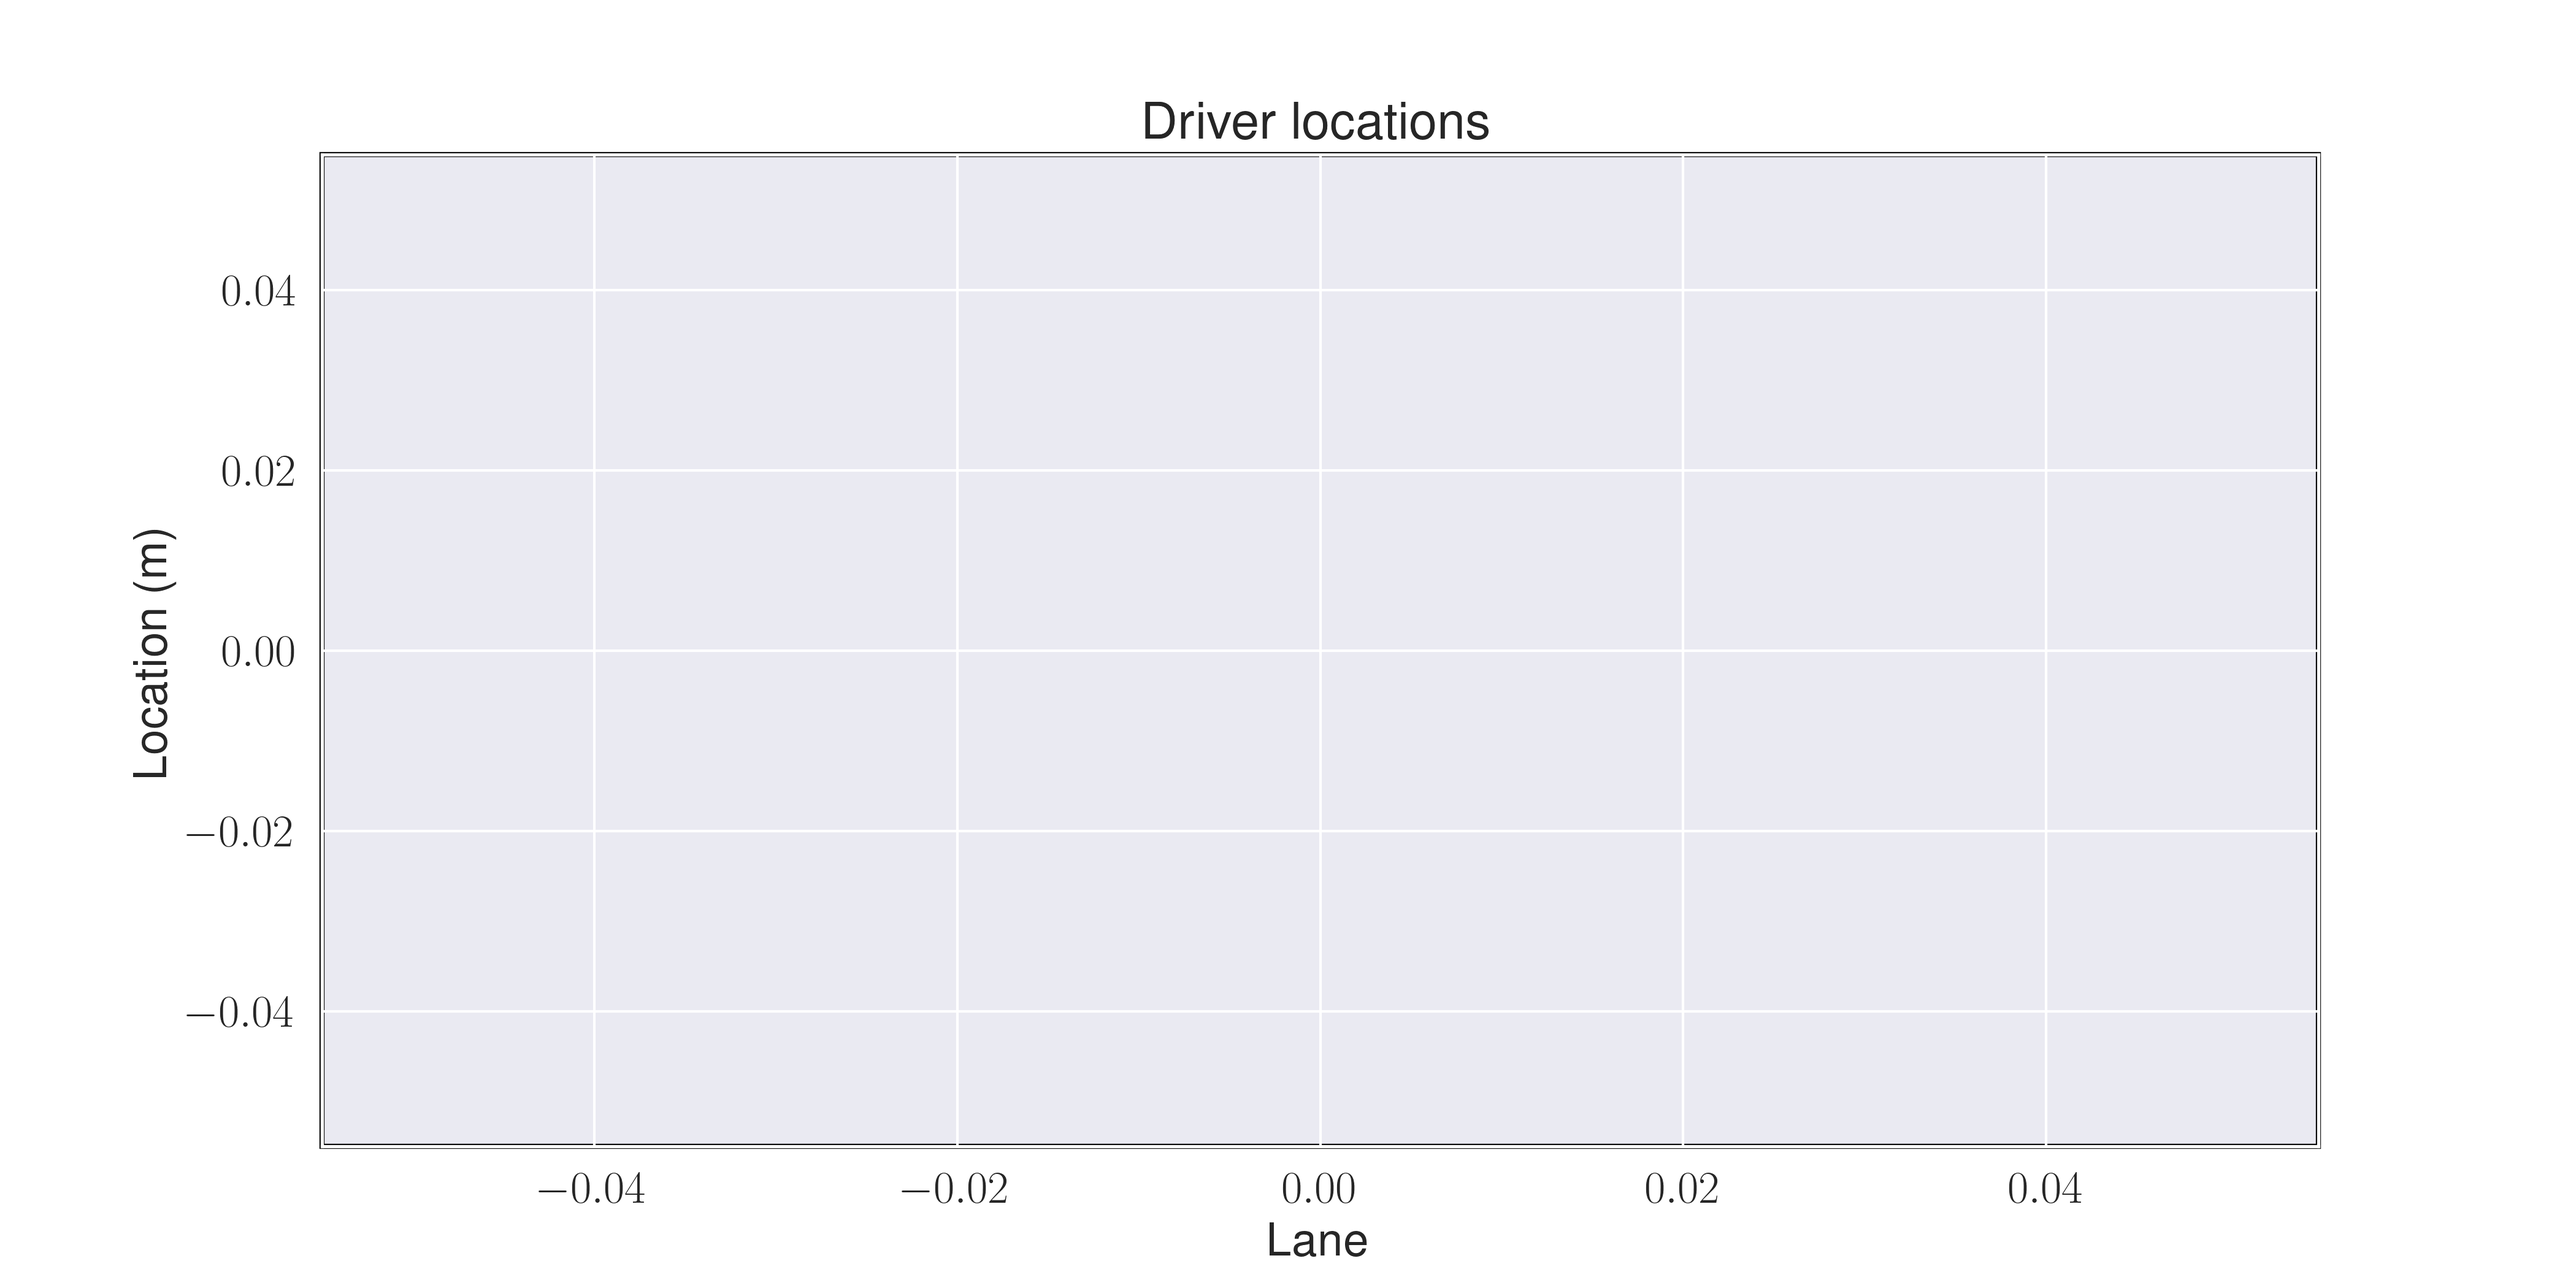
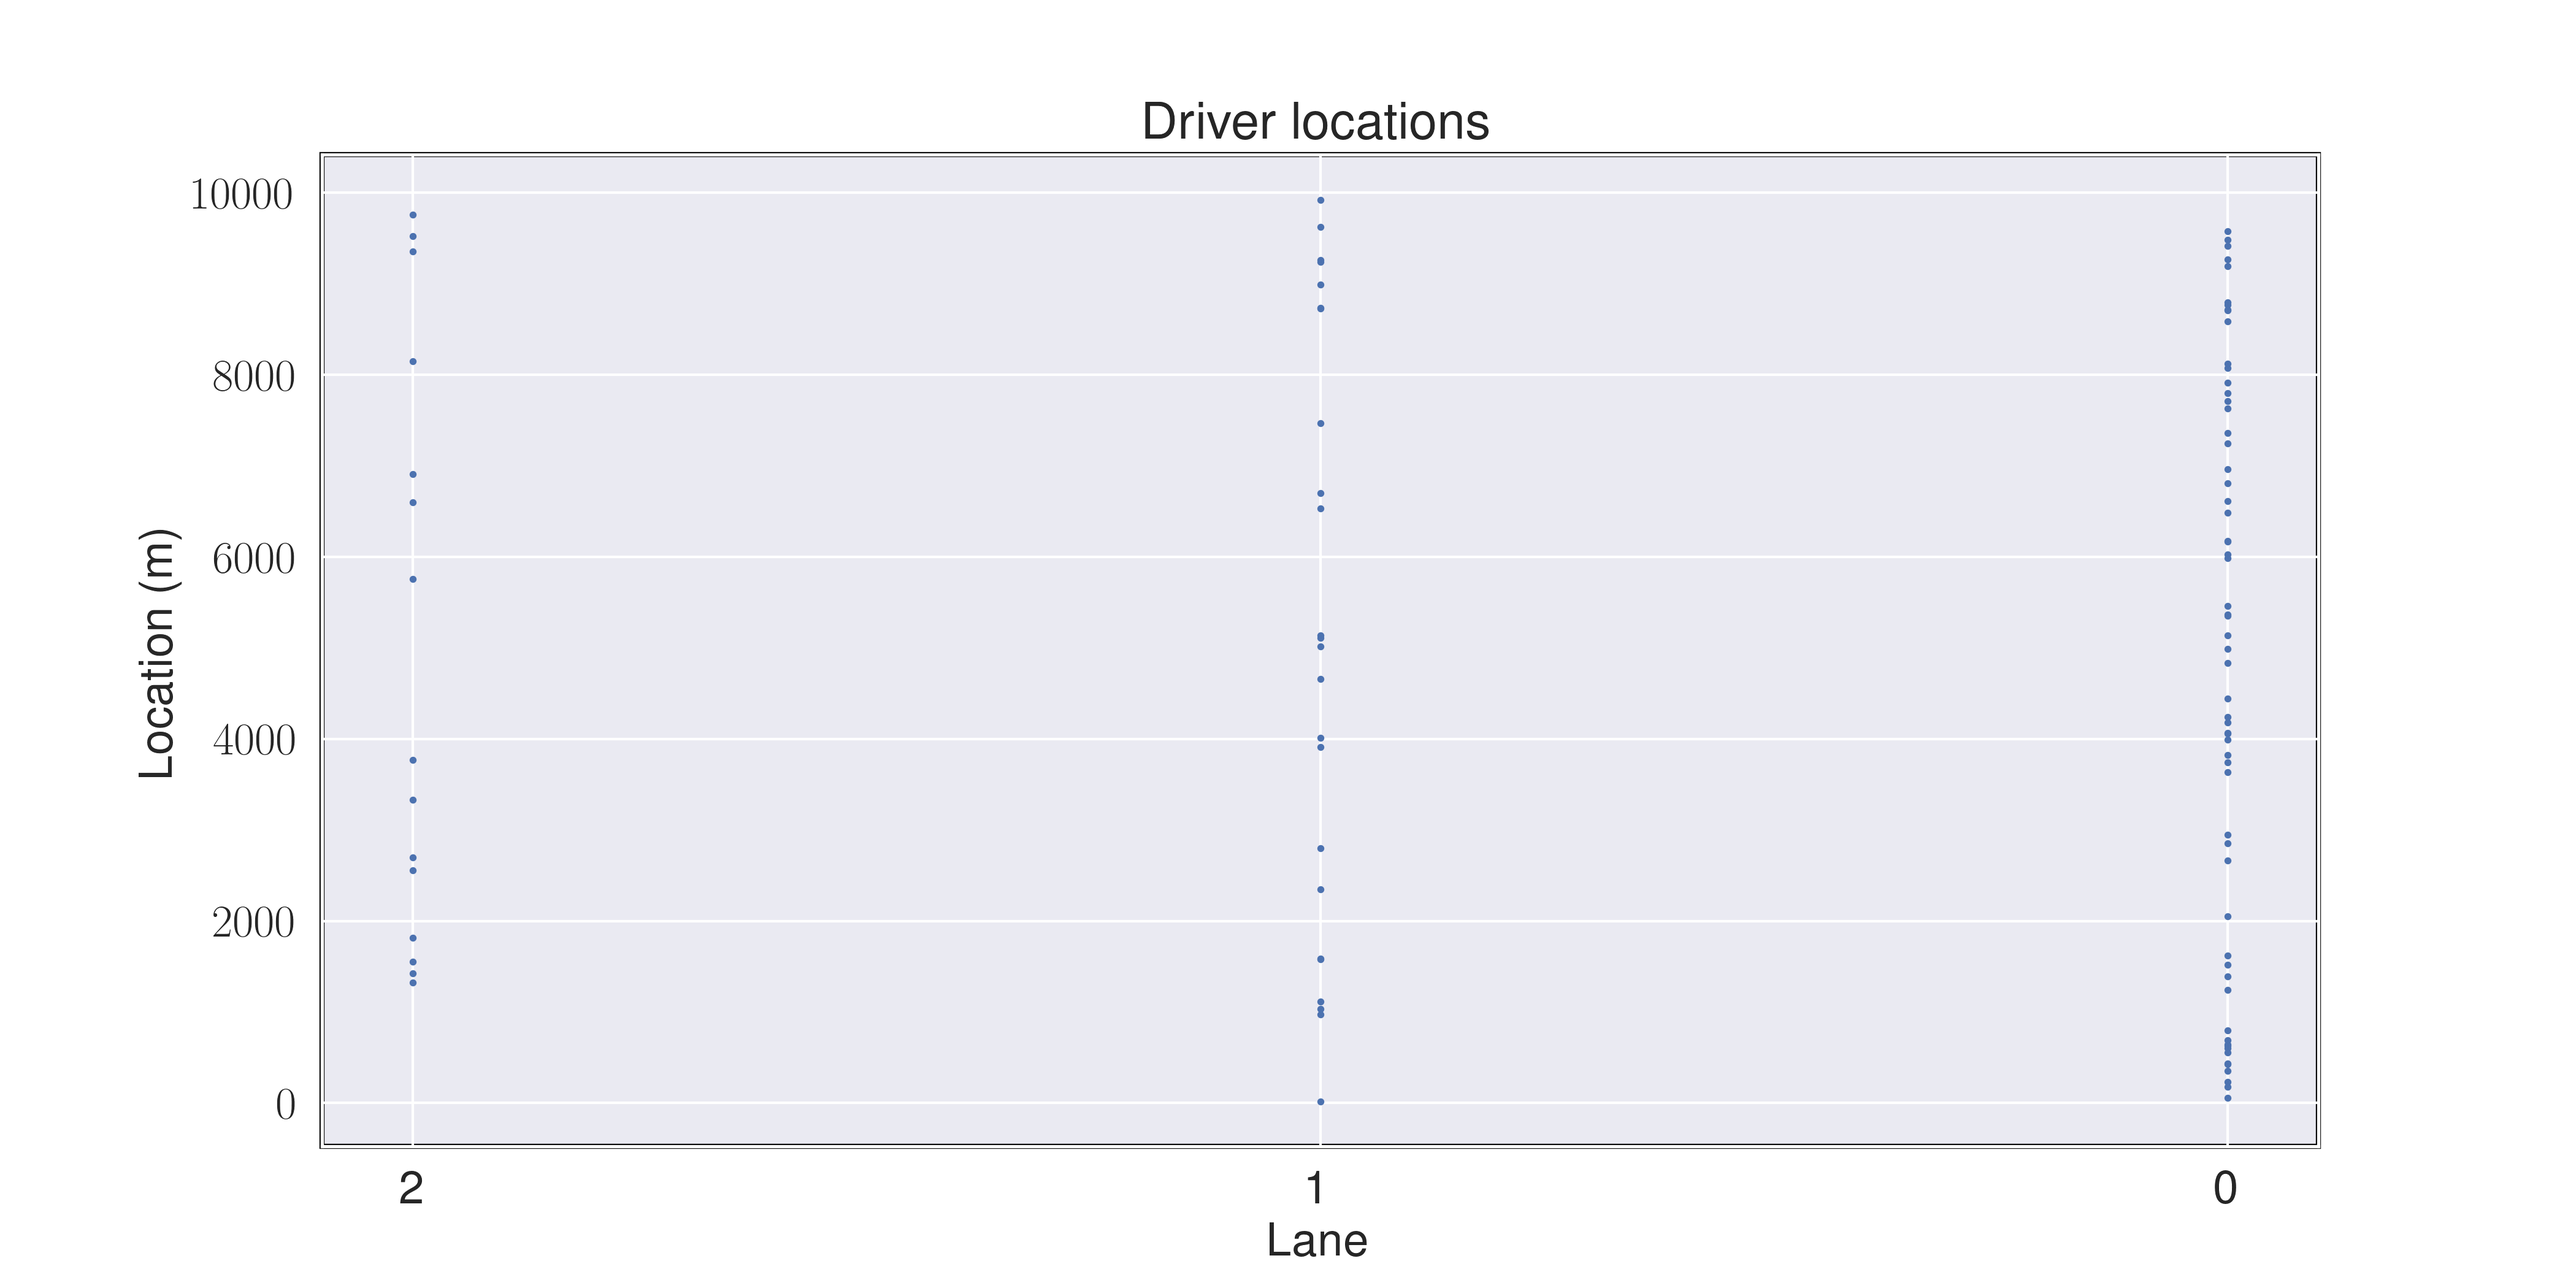
location plot done
lib.graphics.plot_locations; considers drivers' locations and lane_priority to plot

diff --git a/src/tests.py b/src/tests.py
@@ -4,76 +4,71 @@ Test cases for the project. Test functionallity of the project.
 
 import sys
 
-import lib.road as road
+# import lib.road as road
 import lib.engine as engine
-import numpy as np
+# import numpy as np
 import lib.driver
 
-from lib.graphics import plot_distances, plot_velocities, plot_locations
+import lib.graphics as graphics
 
 
 ITERS = 1000
 
 
-def test_distances(iters=ITERS, fname=None, plot=False):
+def test_distances(run_config: engine.RunConfig, fname=None, plot=False):
     # In one line
     file = open(fname, 'w+') if fname is not None else sys.stdout
 
-    drivers_dict = engine.initialize_drivers(population_size=iters)
+    drivers_dict = engine.initialize_drivers(run_config=run_config)
     drivers = list(drivers_dict.values())
 
     for driver in drivers:
 
-        distance = lib.driver.DriverDistributions.risk_overtake_distance(driver)
+        distance =\
+            lib.driver.DriverDistributions.risk_overtake_distance(driver)
 
         print(f"Driver {driver.config.id} is a {driver.config.driver_type}"
-              f"\n\tdriver driving a {driver.config.car_type} car @ {driver.config.speed} m/s"
+              f"\n\tdriver driving a {driver.config.car_type} car @"
+              f"{driver.config.speed} m/s"
               f"\n\tOvertake distance: {distance} m\n", file=file)
 
     if plot:
-        plot_distances(drivers=drivers, fname='img/out/test_velocities.png')
+        graphics.plot_distances(
+            drivers=drivers,
+            fname='img/out/test_distances.png'
+        )
 
 
-def test_velocities(iters=ITERS, fname=None, plot=False):
+def test_velocities(run_config: engine.RunConfig, fname=None, plot=False):
     # In one line
     file = open(fname, 'w+') if fname is not None else sys.stdout
 
-    drivers_dict = engine.initialize_drivers(population_size=iters)
+    drivers_dict = engine.initialize_drivers(run_config=run_config)
     drivers = list(drivers_dict.values())
 
     for driver in drivers:
 
-        velocity = lib.driver.DriverDistributions.risk_overtake_velocity(driver)
+        velocity =\
+            lib.driver.DriverDistributions.risk_overtake_velocity(driver)
 
         print(f"Driver {driver.config.id} is a {driver.config.driver_type}"
-              f"\n\tdriver driving a {driver.config.car_type} car @ {driver.config.speed} m/s"
+              f"\n\tdriver driving a {driver.config.car_type} car @"
+              f"{driver.config.speed} m/s"
               f"\n\tOvertake velocity: {velocity} m/s\n", file=file)
 
     if plot:
-        plot_velocities(drivers=drivers, fname='img/out/test_velocities.png')
+        graphics.plot_velocities(
+            drivers=drivers,
+            fname='img/out/test_velocities.png'
+        )
 
 
-def test_locations(iters=ITERS, fname=None, plot=False):
-    drivers_dict = engine.initialize_drivers(population_size=iters)
+def test_locations(run_config: engine.RunConfig, fname=None, plot=False):
+    drivers_dict = engine.initialize_drivers(run_config=run_config)
     drivers = list(drivers_dict.values())
 
     if plot:
-        plot_locations(drivers=drivers, fname='img/out/test_locations.png')
-
-
-# test_distances(fname='out/test_distances.txt', plot=True)
-# test_velocities(fname='out/test_velocities.txt', plot=True)
-
-# drivers = engine.initialize_drivers(population_size=50)
-
-# for d in drivers.values():
-#     print(f'- Driver [{d.config.id}] @ {d.config.location}')
-
-# print("\nquick_sort\n")
-
-# unsorted = list(drivers.values())
-# engine.Utils.quicksort_d(unsorted)
-# for d in unsorted:
-#     print(f'- Driver [{d.config.id}] @ {d.config.location}')
-
-test_locations(plot=True)
+        graphics.plot_locations(
+            drivers=drivers,
+            fname='img/out/model_locations.png'
+        )

diff --git a/src/lib/graphics.py b/src/lib/graphics.py
@@ -150,22 +150,35 @@ def plot_distances(drivers: list[lib.driver.Driver], fname: str):
     pass
 
 
-def plot_locations(drivers: list[lib.driver.Driver], fname: str):
+def plot_locations(drivers: list[lib.driver.Driver], fname: str,
+                   **kwargs):
     """
     Plot of the locations of the drivers in the simulation.
+
+    Parameters
+    ----------
+    drivers : list[lib.driver.Driver]
+        List of drivers in the simulation.
+    fname : str
+        Name of the file to save the plot to.
+    kwargs : dict
+        - `lane_priority` : LanePriority
+            Lane priority to use when plotting the locations.
+            Defaults to `LanePriority.LEFT`.
     """
     # Separate the locations by lane
-    data = {}
+    # data = {}
+    lane_array = []
+    loct_array = []
 
-    # Get number of lanes
-    n_lanes = np.max(np.array(
-        [d.config.lane for d in drivers]
-    ))
+    lane_priority: lib.driver.LanePriority = kwargs.get(
+        'lane_priority',
+        lib.driver.LanePriority.LEFT
+    )
 
-    for lane in range(n_lanes):
-        data[lane] = np.array(
-            [d.config.location for d in drivers if d.config.lane == lane]
-        )
+    for driver in drivers:
+        lane_array.append(driver.config.lane)
+        loct_array.append(driver.config.location)
 
     # Plot the data
     figure = plt.figure(figsize=(14, 7))
@@ -173,18 +186,24 @@ def plot_locations(drivers: list[lib.driver.Driver], fname: str):
     # One plot, one column per lane
     ax = figure.add_subplot(111)  # type: ignore
 
-    for lane, locations in data.items():
-        # lane represents the xaxis position
+    xticks = np.arange(np.max(lane_array)+1)
 
-        # Plot the points
-        ax.plot(xs=np.ones(shape=locations.shape) * lane,
-                ys=locations,)
+    if lane_priority == lib.driver.LanePriority.LEFT:
+        # reverse lane_array
+        lane_array = np.max(lane_array) - np.array(lane_array)
+        xlabels = [f'{np.max(lane_array)-i}' for i in xticks]
+    else:
+        xlabels = [f'{i}' for i in xticks]
+
+    ax.scatter(lane_array, loct_array, s=3)
 
     style_set(
         ax,
         title='Driver locations',
         ylabel='Location (m)',
         xlabel='Lane',
+        xticks=np.arange(np.max(lane_array)+1),
+        xlabels=xlabels
     )
 
     figure.savefig(fname, dpi=300)

diff --git a/src/run.py b/src/run.py
@@ -8,6 +8,7 @@ from config import POPULATION_SIZE, ROAD_LENGTH, MAX_SPEED,\
         TIME_STEPS, LANES, LANES_PRIORITY, LANES_DENSITY,\
         SAFE_DISTANCE
 import lib.graphics as graphics
+import tests
 
 
 def run():
@@ -26,18 +27,19 @@ def run():
         safe_distance=SAFE_DISTANCE
     )
 
-    engine = Engine(run_config)
-    engine.run()
+    # engine = Engine(run_config)
+    # engine.run()
 
-    print("Simulation complete")
+    # Just test for now
 
-    # Print the results
-    # print_model(engine.model)
+    test(run_config=run_config)
 
-    graphics.plot_locations(
-        drivers=list(engine.model.drivers.values()),
-        fname='img/out/model_locations.png'
-    )
+
+def test(run_config: RunConfig):
+    # Call the test functions here
+    # tests.test_distances(run_config=run_config, plot=True)
+    # tests.test_velocities(run_config=run_config, plot=True)
+    tests.test_locations(run_config=run_config, plot=True)
 
 
 if __name__ == "__main__":

diff --git a/src/lib/driver.py b/src/lib/driver.py
@@ -1,6 +1,4 @@
 """
-Abstract base class for all drivers.
-
 This class defines the interface that all drivers must implement. It
 also provides a few utility methods that are useful for all drivers.
 
@@ -12,6 +10,8 @@ The action() method would depend on the parameters of the driver
 which will be set depending on the type of driver. For example, a
 driver that takes risks will consider overtaking other vehicles
 within less distance than a driver that is more cautious.
+
+NOTE: above statement might change.
 
 Almost all the methods in this class will be implemented by itself,
 but the parameters of the driver will be set by the simulation

diff --git a/src/config.py b/src/config.py
@@ -27,10 +27,10 @@ ROAD_LENGTH = 1e4
 
 MAX_SPEED = 130  # In km/h
 
-LANES = 2
+LANES = 3
 
 LANES_PRIORITY = LanePriority.LEFT
 
-LANES_DENSITY = [0.8, 0.2]
+LANES_DENSITY = [0.6, 0.25, 0.15]
 
 SAFE_DISTANCE = 4.  # In meters
